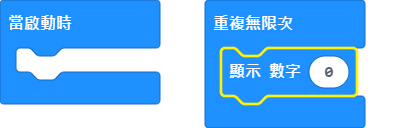
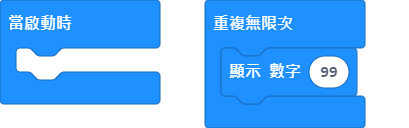
更新 main.blocks, main.ts

Changed region(s): [[0.5281, 0.3438, 0.8802, 0.8438], [0.7628, 0.5, 0.8215, 0.625]]

diff --git a/main.ts b/main.ts
@@ -1,3 +1,3 @@
 basic.forever(function () {
-    basic.showNumber(0)
+    basic.showNumber(99)
 })
